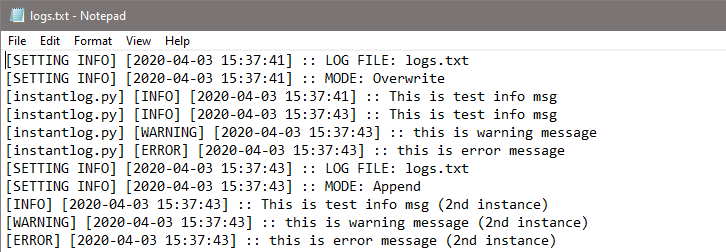
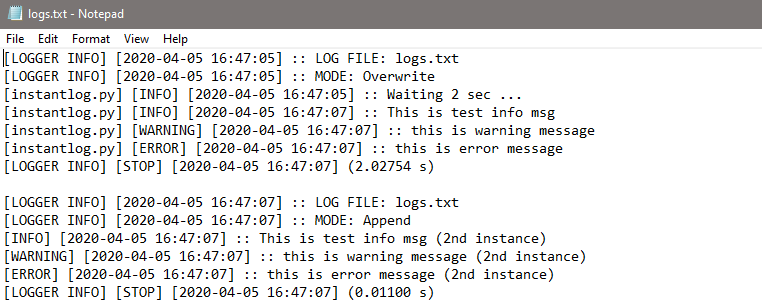
minor fixes in stop method. Updated figures and readme.md

diff --git a/instantlog/instantlog.py b/instantlog/instantlog.py
@@ -50,8 +50,8 @@ class InstantLog():
                 pass
 
         with open(self._file_pth, 'a') as f:
-            msg1 = f'[SETTING INFO] [{now}] :: LOG FILE: {self._file_pth}'
-            msg2 = f'[SETTING INFO] [{now}] :: MODE: {self._mode}'
+            msg1 = f'[LOGGER INFO] [{now}] :: LOG FILE: {self._file_pth}'
+            msg2 = f'[LOGGER INFO] [{now}] :: MODE: {self._mode}'
             f.write(msg1 + '\n' + msg2 + '\n')
 
     def stop(self):
@@ -66,10 +66,7 @@ class InstantLog():
               f' [{now}] ({exec_time:.5f} s)')
 
         with open(self._file_pth, 'a') as f:
-            f.write(f'[LOGGER INFO] [STOP] [{now}] ({exec_time:.5f} s)\n')
-
-
-
+            f.write(f'[LOGGER INFO] [STOP] [{now}] ({exec_time:.5f} s)\n\n')
 
     def now(self):
         """Return recent date-time"""

diff --git a/README.md b/README.md
@@ -15,12 +15,21 @@ pip install instantlog
 ```
 
 ## Usage
-Minimal example for use:
+Minimal example:
 ```python
 from instantlog import InstantLog
 log = InstantLog()
 log.i("This is test info msg", True)
 ```
+To see execution time at the end, use stop() method:
+Minimal example:
+```python
+from instantlog import InstantLog
+log = InstantLog()
+log.w("This warning is will not appear in file")
+log.stop() # put this in the last line of your code
+```
+
 #### Init parameters:
 All of the following parameters are optional:
 * `name=None` (str) -- additional pair of square bracket info. Putting the `__file__` as `name` gives info about which module is actually logging. 
